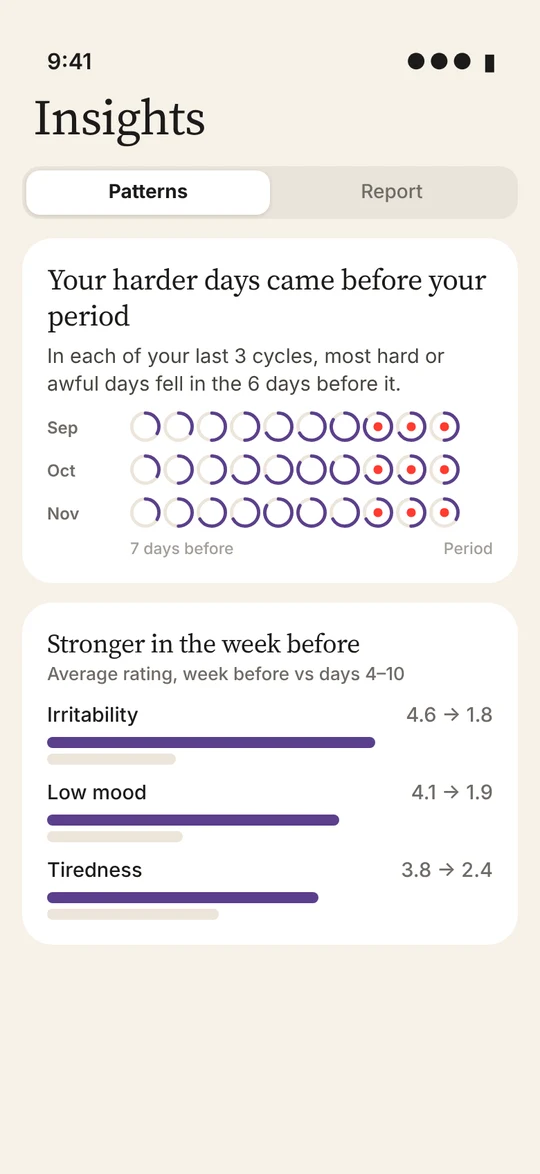
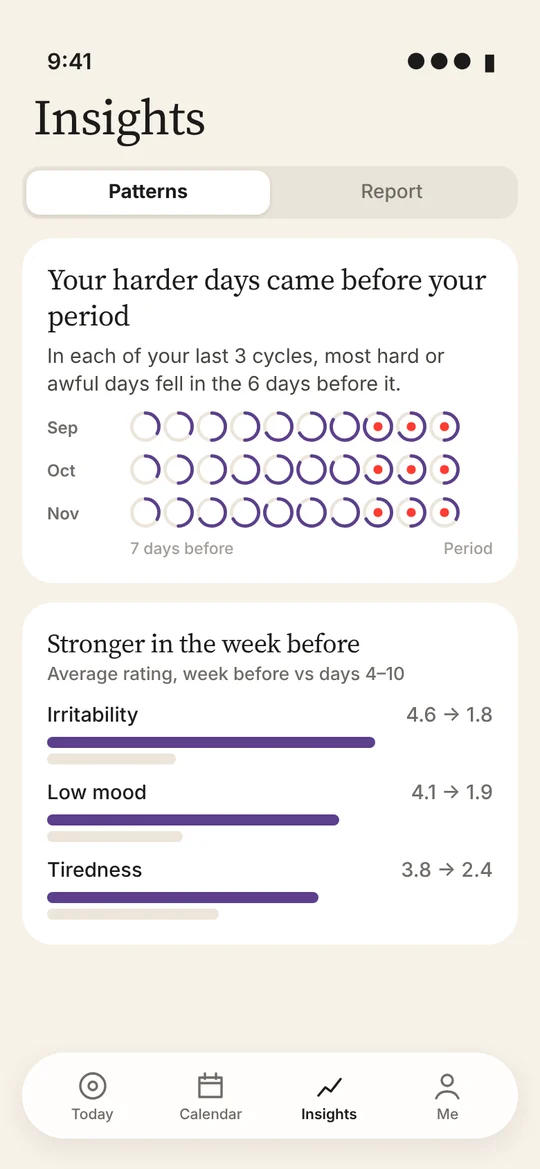
Tenderday page: Calendar hero, tab bar in screenshots, full symptom log
- Calendar screen is the first screenshot (shown right after the headline on phones);
  homepage card uses it too.
- App screenshots now include the bottom tab bar; Today dial is larger.
- New "Full symptom log" section; Today screen moves to a "Your day" section.
- Phone header wraps so all nav links fit.

Claude-Session: https://claude.ai/code/session_011MVkH6FDvkZNXJsTue635A

diff --git a/tenderday.html b/tenderday.html
@@ -52,7 +52,7 @@
         "image": "https://foca.work/images/icon-tenderday.png",
         "description": "A private PMDD and PMS tracker and symptom diary for iPhone: one ring a day for how the day felt, period days, symptoms and notes, a calendar, Insights that show your pattern after two cycles, and a free PDF report for your doctor. It records and describes; it does not diagnose or predict.",
         "keywords": "PMDD tracker, PMS tracker, PMDD app, premenstrual dysphoric disorder, PMDD symptom diary, mood and period tracker, DRSP, doctor report",
-        "featureList": ["One-tap daily mood rating on a dial", "Period days and flow", "Symptoms and notes", "Calendar of day rings", "Cycle pattern insights after two cycles", "Free PDF report for your doctor", "No account; data stays on the iPhone", "Read-only Apple Health period import"],
+        "featureList": ["One-tap daily mood rating on a dial", "Period days and flow", "Full daily symptom log on a 1 to 6 scale (11 symptoms and 3 impacts)", "Symptoms and notes", "Calendar of day rings", "Cycle pattern insights after two cycles", "Free PDF report for your doctor", "No account; data stays on the iPhone", "Read-only Apple Health period import"],
         "author": { "@id": "https://foca.work/#organization" }
       },
       {
@@ -64,6 +64,16 @@
   }
   </script>
   <style>
+    /* Phones: show the calendar right after the headline, before the lead and the form. */
+    @media (max-width: 560px) {
+      .app-hero { gap: 20px; }
+      .app-hero-copy { display: contents; }
+      .app-hero-copy > * { width: 100%; }
+      .app-hero-copy > .soon { width: auto; align-self: flex-start; }
+      .app-hero-media { order: 1; flex-basis: 100%; }
+      .app-hero-media .shot { width: 220px; }
+      .app-hero-copy > .lead, .app-hero-copy > .join { order: 2; }
+    }
     .soon { display: inline-flex; align-items: center; gap: 8px; align-self: flex-start; padding: 6px 12px; border-radius: 999px; background: rgba(185,163,232,.14); color: var(--app); font-size: 14px; font-weight: 600; }
     .soon::before { content: ""; width: 8px; height: 8px; border-radius: 50%; background: #FF3B30; }
     .join { display: flex; flex-direction: column; gap: 10px; max-width: 480px; }
@@ -133,7 +143,7 @@
         </form>
       </div>
       <div class="app-hero-media">
-        <img class="shot" src="images/shot-tenderday-today.webp" alt="Tenderday Today screen: cycle day 3 on a period day, the stove-knob dial set to Hard, and the Flow, Symptoms and Note rows" width="540" height="1174">
+        <img class="shot" src="images/shot-tenderday-calendar.webp" alt="Tenderday calendar for November: a ring for each day, fuller on harder days, red dots on period days, and a note that the harder days came before the period" width="540" height="1169" fetchpriority="high">
       </div>
     </section>
 
@@ -144,17 +154,17 @@
           <h2>Turn the dial. That’s today logged.</h2>
           <p>Great, Good, Okay, Hard or Awful: one turn fills the day’s ring. A fuller ring is a harder day, and a red dot marks a period day. Symptoms and a short note are there when you want them.</p>
         </div>
-        <div class="split-media"><img class="shot" src="images/shot-tenderday-dial.webp" alt="The Tenderday dial before logging: a ceramic knob inside an empty ring, with Great, Good, Okay, Hard and Awful around it" width="540" height="1174" loading="lazy"></div>
+        <div class="split-media"><img class="shot" src="images/shot-tenderday-dial.webp" alt="The Tenderday dial before logging: a ceramic knob inside an empty ring, with Great, Good, Okay, Hard and Awful around it" width="540" height="1169" loading="lazy"></div>
       </div>
     </section>
 
     <section class="wrap section">
       <div class="split flip-split reveal">
-        <div class="split-media"><img class="shot" src="images/shot-tenderday-calendar.webp" alt="Tenderday calendar of day rings for November, with red dots on period days" width="540" height="1174" loading="lazy"></div>
+        <div class="split-media"><img class="shot" src="images/shot-tenderday-today.webp" alt="Tenderday Today screen: cycle day 3 on a period day, the dial set to Hard, and a note that last cycle, days like this eased by day 4" width="540" height="1169" loading="lazy"></div>
         <div>
-          <p class="eyebrow app">Calendar</p>
-          <h2>Every day of the month, at a glance.</h2>
-          <p>Each day keeps its ring, so a month reads like a picture: lighter weeks, heavier weeks, and where your period fell.</p>
+          <p class="eyebrow app">Your day</p>
+          <h2>Period, symptoms and a note, when you want them.</h2>
+          <p>Tap Had flow on period days and a red dot joins the ring. Add symptoms or a short note in a tap. On a hard day, Tenderday shows how days like it went last cycle.</p>
         </div>
       </div>
     </section>
@@ -166,18 +176,29 @@
           <h2>Knowing it’s the week before, not you.</h2>
           <p>After two cycles, Insights lines your days up against your period and shows when the harder days come, and which symptoms rise in the week before. Many people find those days easier to meet once they can see them coming.</p>
         </div>
-        <div class="split-media"><img class="shot" src="images/shot-tenderday-insights.webp" alt="Tenderday Insights: three cycles of rings lined up to the period, showing harder days in the week before, and symptoms that were stronger then" width="540" height="1174" loading="lazy"></div>
+        <div class="split-media"><img class="shot" src="images/shot-tenderday-insights.webp" alt="Tenderday Insights: three cycles of rings lined up to the period, showing harder days in the week before, and symptoms that were stronger then" width="540" height="1169" loading="lazy"></div>
       </div>
     </section>
 
     <section class="wrap section">
       <div class="split flip-split reveal">
-        <div class="split-media"><img class="shot" src="images/shot-tenderday-report.webp" alt="Tenderday Report: a preview of the PDF for your doctor with two cycles of daily ratings, and switches for symptoms and notes" width="540" height="1174" loading="lazy"></div>
+        <div class="split-media"><img class="shot" src="images/shot-tenderday-checkin.webp" alt="Tenderday full check-in: how the day felt, period flow, and symptoms such as low mood, anxiety, irritability and cramps each rated from 1, not at all, to 6, extreme" width="540" height="1169" loading="lazy"></div>
+        <div>
+          <p class="eyebrow app">Full symptom log</p>
+          <h2>A complete daily record, ready for your doctor.</h2>
+          <p>On days you want more than the dial, open the full check-in. Rate 11 mood and body symptoms, from low mood, anxiety and irritability to cramps and sleep, plus what they got in the way of: work, plans and people. Each uses the same 1 to 6 scale as the daily record clinicians use to assess PMDD. Every symptom starts at “not at all”, so a calm day needs no taps.</p>
+        </div>
+      </div>
+    </section>
+
+    <section class="wrap section">
+      <div class="split reveal">
         <div>
           <p class="eyebrow app">Report for your doctor</p>
           <h2>Bring two cycles to your appointment.</h2>
           <p>Export a free PDF with two cycles of daily ratings, period days and your top symptoms on one page: the daily record doctors ask for when they assess PMDD. Notes stay out unless you switch them on, and nothing is ever sent for you.</p>
         </div>
+        <div class="split-media"><img class="shot" src="images/shot-tenderday-report.webp" alt="Tenderday Report: a preview of the PDF for your doctor with two cycles of daily ratings, and switches for symptoms and notes" width="540" height="1169" loading="lazy"></div>
       </div>
     </section>
 
@@ -232,7 +253,7 @@
           <p>A calm focus timer with ambient sounds and guided stretch breaks.</p>
           <span class="go">Meet Foca →</span>
           </span>
-          <span class="app-media"><img class="app-shot" src="images/shot-ios-timer.webp" alt="Foca focus timer" width="540" height="1174" loading="lazy"></span>
+          <span class="app-media"><img class="app-shot" src="images/shot-ios-timer.webp" alt="Foca focus timer" width="540" height="1169" loading="lazy"></span>
         </a>
         <a class="app-card dayfold" href="dayfold.html">
           <span class="app-copy">
@@ -244,7 +265,7 @@
           <p>Countdowns and anniversaries as cards on your Home and Lock Screen.</p>
           <span class="go">Meet Dayfold →</span>
           </span>
-          <span class="app-media"><img class="app-shot" src="images/shot-dayfold-moments.webp" alt="Dayfold Moments screen" width="540" height="1174" loading="lazy"></span>
+          <span class="app-media"><img class="app-shot" src="images/shot-dayfold-moments.webp" alt="Dayfold Moments screen" width="540" height="1169" loading="lazy"></span>
         </a>
       </div>
     </section>

diff --git a/index.html b/index.html
@@ -251,15 +251,15 @@
           <p>Forest, tide, café and more. Pick a sound and start the timer.</p>
         </div>
         <div class="feature-media">
-          <img class="shot" src="images/shot-ios-timer.webp" alt="Foca focus timer running on iPhone" width="540" height="1174" loading="lazy">
-          <img class="shot" src="images/shot-ios-sounds.webp" alt="Choosing an ambient sound in Foca" width="540" height="1174" loading="lazy">
+          <img class="shot" src="images/shot-ios-timer.webp" alt="Foca focus timer running on iPhone" width="540" height="1169" loading="lazy">
+          <img class="shot" src="images/shot-ios-sounds.webp" alt="Choosing an ambient sound in Foca" width="540" height="1169" loading="lazy">
         </div>
       </div>
 
       <div class="feature flip reveal">
         <div class="feature-media">
-          <img class="shot" src="images/shot-ios-break.webp" alt="Foca break timer" width="540" height="1174" loading="lazy">
-          <img class="shot" src="images/shot-ios-stretch.webp" alt="Guided neck stretch in Foca" width="540" height="1174" loading="lazy">
+          <img class="shot" src="images/shot-ios-break.webp" alt="Foca break timer" width="540" height="1169" loading="lazy">
+          <img class="shot" src="images/shot-ios-stretch.webp" alt="Guided neck stretch in Foca" width="540" height="1169" loading="lazy">
         </div>
         <div class="feature-copy">
           <p class="eyebrow">02 · Break</p>
@@ -276,8 +276,8 @@
           <p>Focus time by day, week and category.</p>
         </div>
         <div class="feature-media">
-          <img class="shot" src="images/shot-ios-stats.webp" alt="Foca focus statistics" width="540" height="1174" loading="lazy">
-          <img class="shot" src="images/shot-ios-distribution.webp" alt="Foca task distribution by category" width="540" height="1174" loading="lazy">
+          <img class="shot" src="images/shot-ios-stats.webp" alt="Foca focus statistics" width="540" height="1169" loading="lazy">
+          <img class="shot" src="images/shot-ios-distribution.webp" alt="Foca task distribution by category" width="540" height="1169" loading="lazy">
         </div>
       </div>
     </section>
@@ -375,7 +375,7 @@
           <p>Birthdays, anniversaries and countdowns as Moment cards on your Home and Lock Screen.</p>
           <span class="go">Meet Dayfold →</span>
           </span>
-          <span class="app-media"><img class="app-shot" src="images/shot-dayfold-moments.webp" alt="Dayfold Moments screen" width="540" height="1174" loading="lazy"></span>
+          <span class="app-media"><img class="app-shot" src="images/shot-dayfold-moments.webp" alt="Dayfold Moments screen" width="540" height="1169" loading="lazy"></span>
         </a>
       </div>
       <p class="help-note"><a href="guides/christmas-countdown-widget-iphone.html">Christmas countdown widget for iPhone</a></p>
@@ -390,7 +390,7 @@
           <p>Tabata, boxing and circuits with audio cues and workout history.</p>
           <span class="go">Meet Core →</span>
           </span>
-          <span class="app-media"><img class="app-shot" src="images/shot-core-timer.webp" alt="Core counting down a work interval" width="540" height="1174" loading="lazy"></span>
+          <span class="app-media"><img class="app-shot" src="images/shot-core-timer.webp" alt="Core counting down a work interval" width="540" height="1169" loading="lazy"></span>
         </a>
         <a class="app-card core" href="tenderday.html" style="--app:#B9A3E8">
           <span class="app-copy">
@@ -402,7 +402,7 @@
           <p>A private PMDD and PMS diary: see when your harder days come, and bring a free report to your doctor.</p>
           <span class="go">Join the list →</span>
           </span>
-          <span class="app-media"><img class="app-shot" src="images/shot-tenderday-today.webp" alt="Tenderday Today screen with the day dial" width="540" height="1174" loading="lazy"></span>
+          <span class="app-media"><img class="app-shot" src="images/shot-tenderday-calendar.webp" alt="Tenderday calendar of day rings, with red dots on period days" width="540" height="1169" loading="lazy"></span>
         </a>
       </div>
     </section>

diff --git a/css/home.css b/css/home.css
@@ -273,9 +273,9 @@ video.shot { display: block; background: #f6f4ef; }
   .nav { padding-block: 12px; gap: 8px; }
   .nav-links { gap: 4px 14px; }
   .nav-links a:not(.pill) { padding: 12px 2px; }
-  .nav { flex-wrap: nowrap; }
+  .nav { flex-wrap: wrap; row-gap: 0; }
   .brand { font-size: 19px; white-space: nowrap; }
-  .nav-links { flex-wrap: nowrap; gap: 14px; }
+  .nav-links { flex-wrap: nowrap; gap: 14px; width: 100%; justify-content: space-between; }
   .nav-links .pill { display: none; }
   .hero { gap: 16px; padding-block: 24px 32px; }
   .hero-media img { max-width: 360px; }
